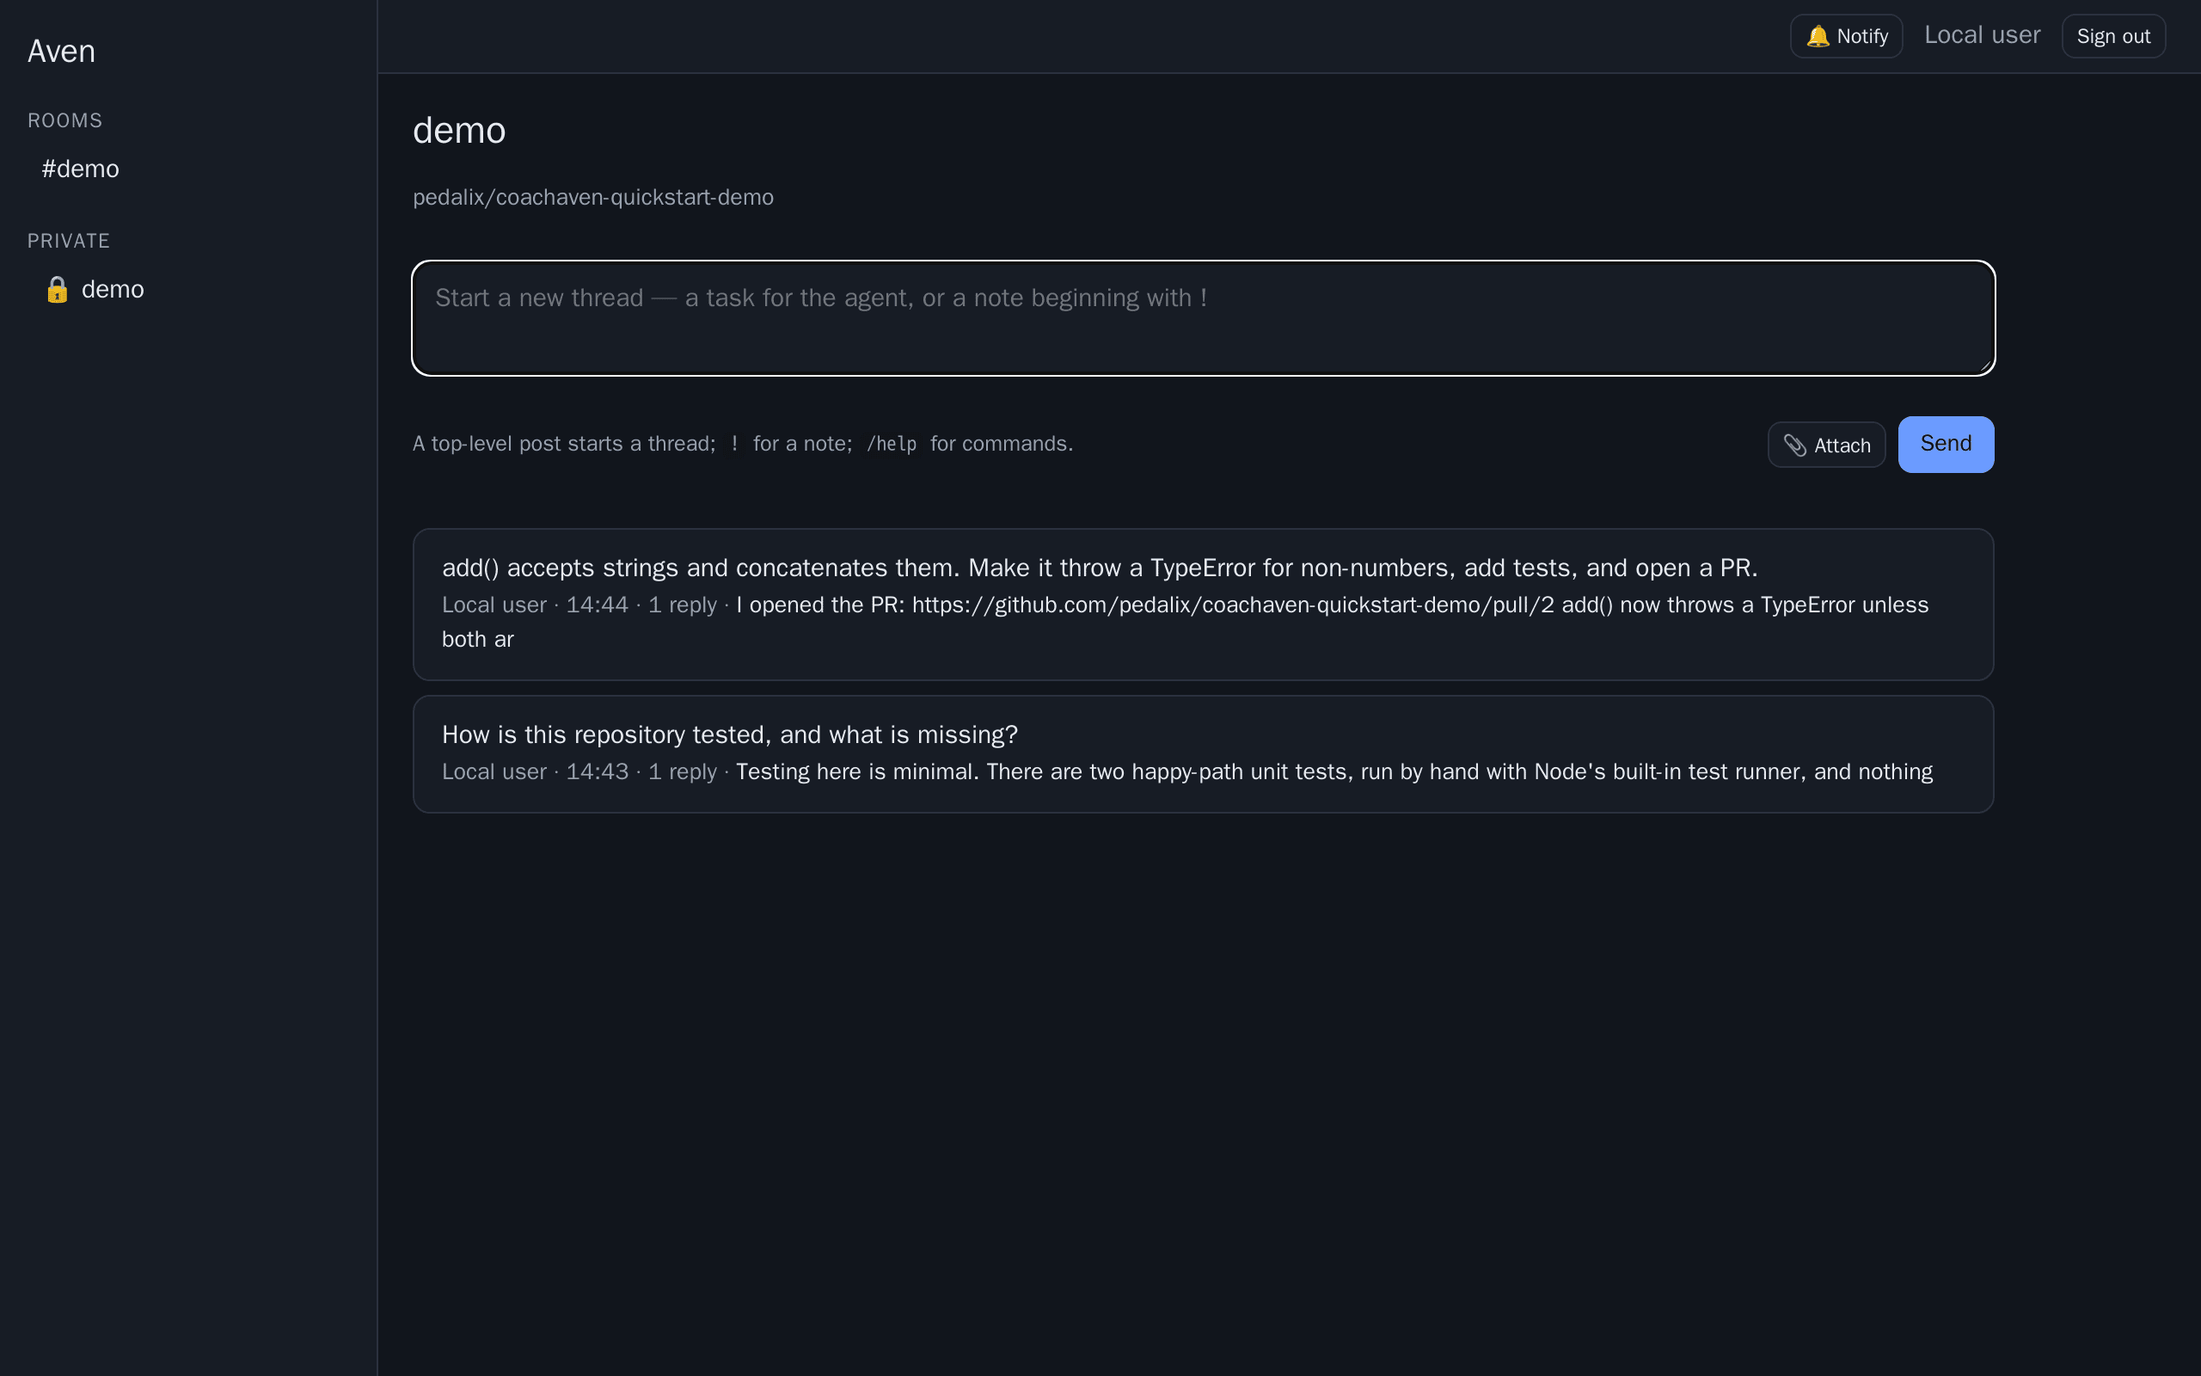
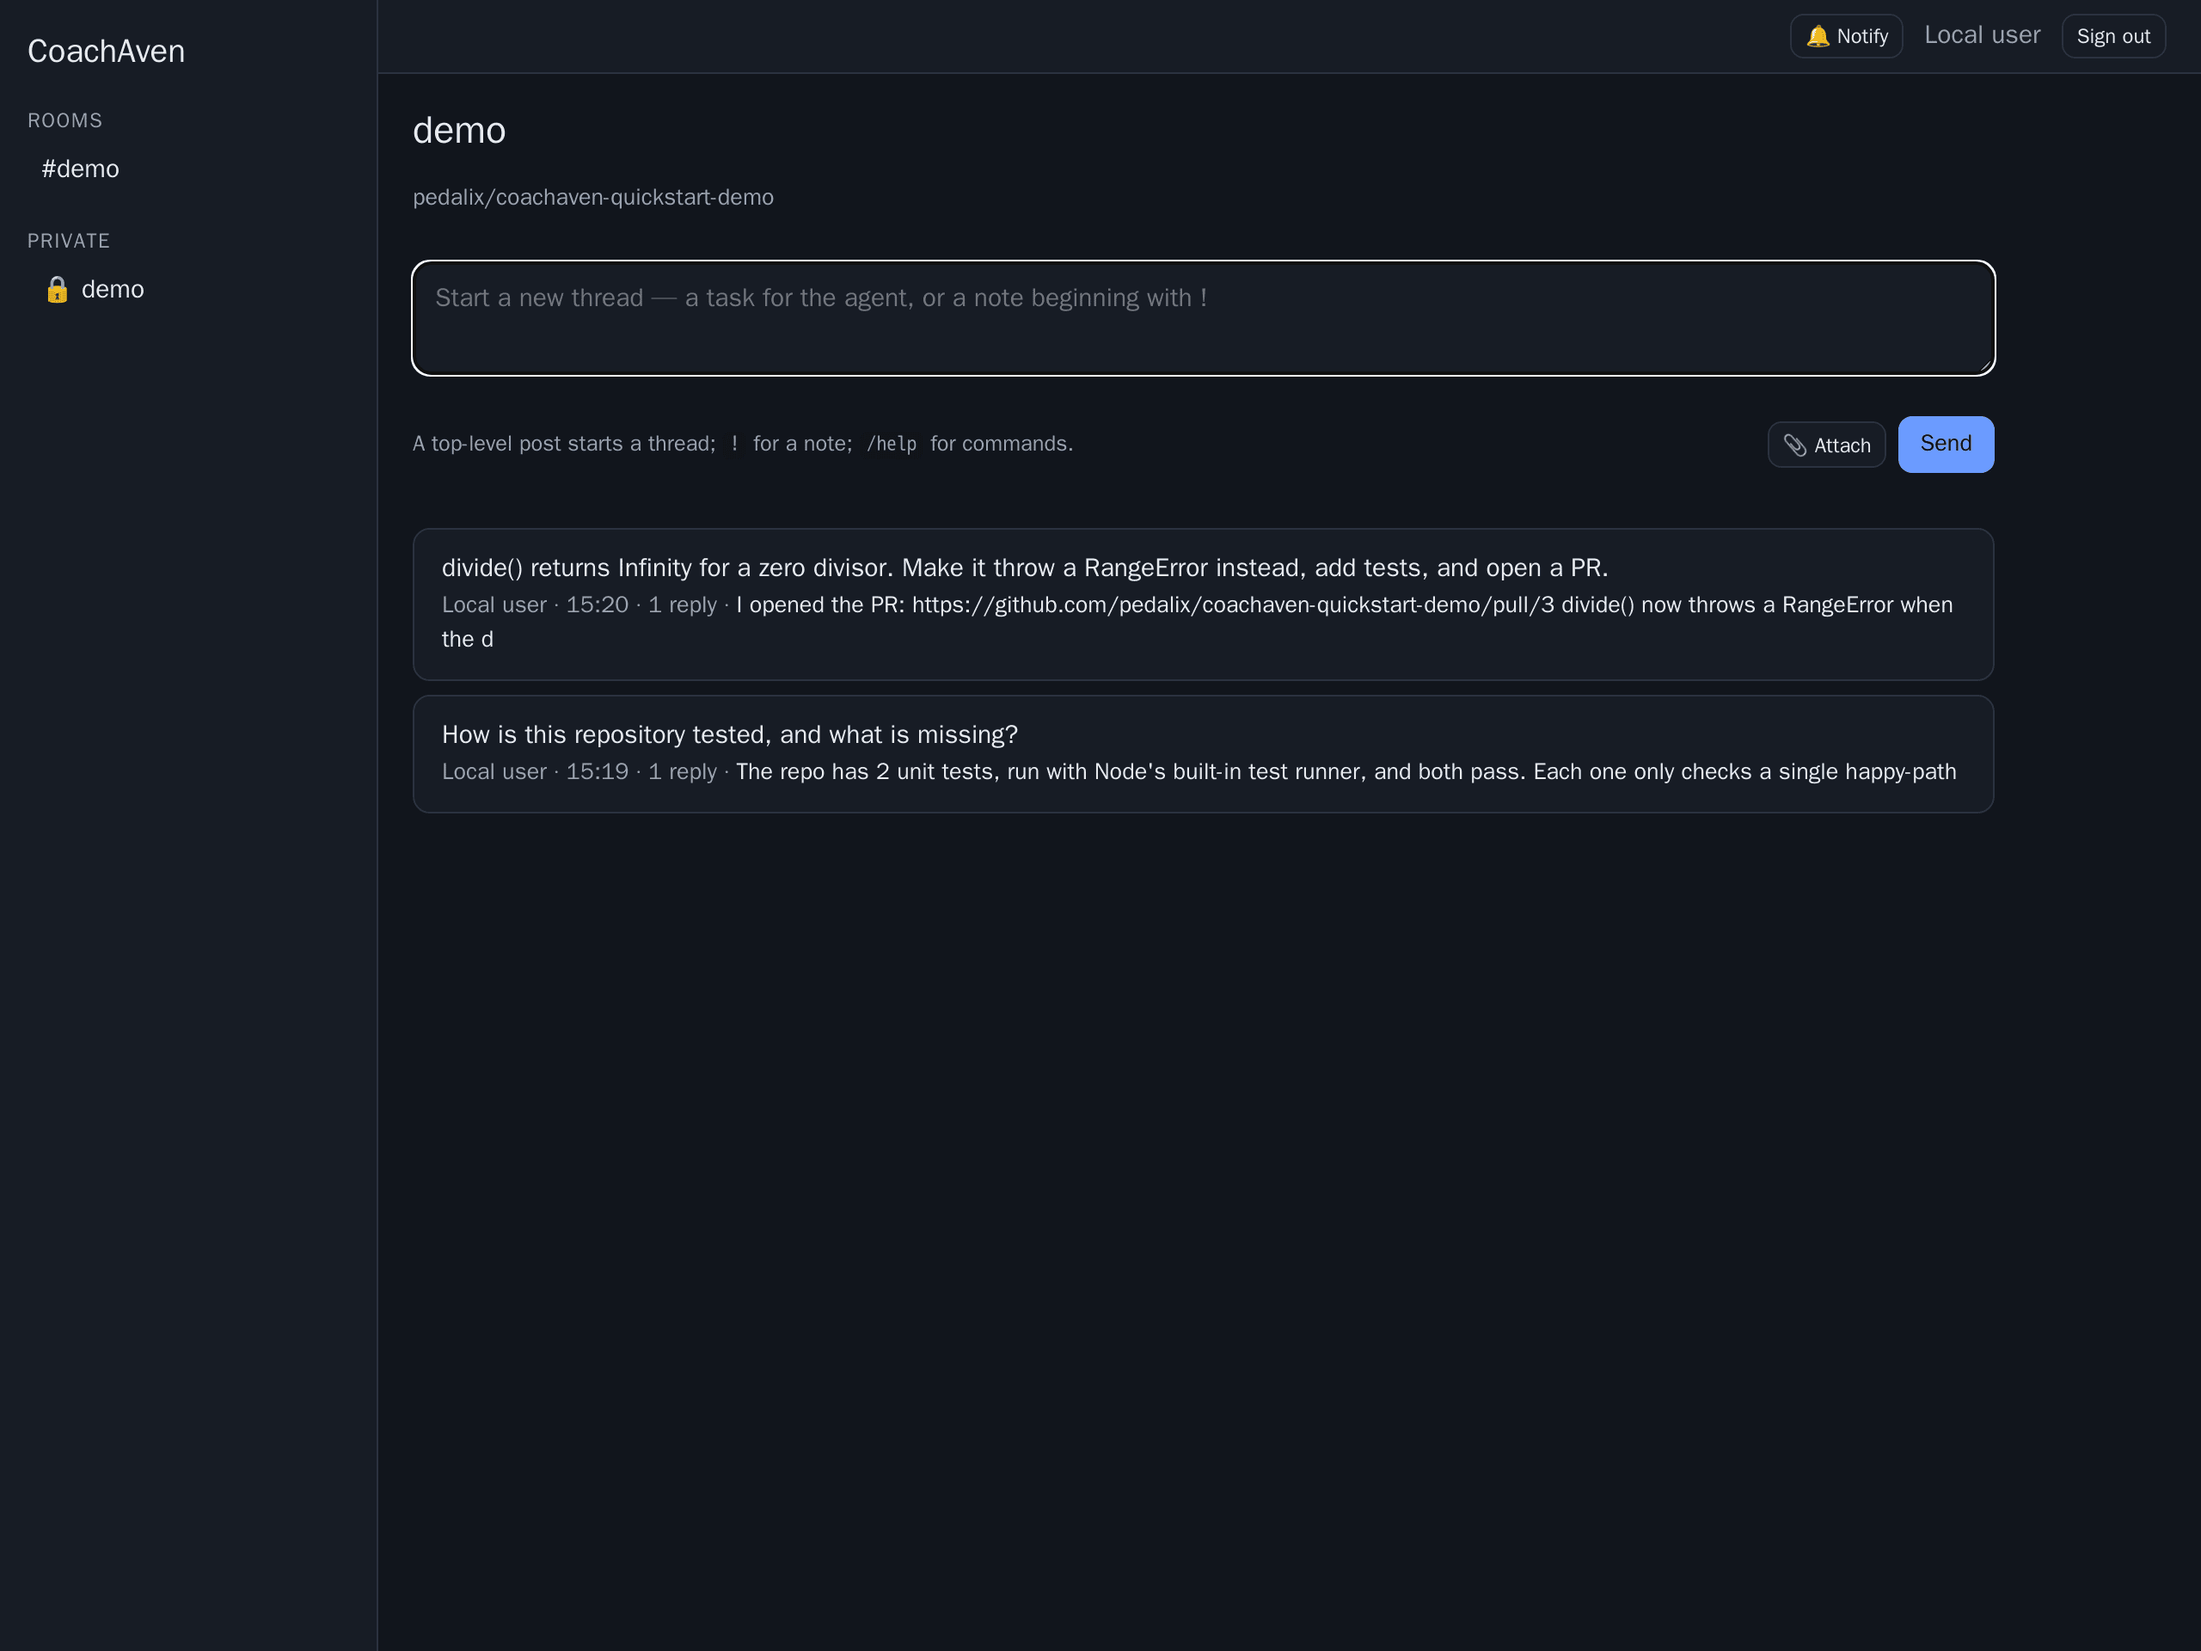
Screenshots again: CoachAven in the web chat's chrome, the thread captured at the top of the page (no sticky-sidebar offset)
Claude-Session: https://claude.ai/code/session_01HUqWBsuAtmvtPcyYnHjUs1

diff --git a/README.md b/README.md
@@ -17,7 +17,7 @@ privileged container: [`docs/quickstart.md`](docs/quickstart.md). Clone, `./init
 
 <picture>
   <source media="(prefers-color-scheme: dark)" srcset="docs/img/web-thread-dark.png">
-  <img alt="A thread in the web chat: asked to make add() reject non-numbers, the agent shows the change, says what its tests cover and links the pull request it opened" src="docs/img/web-thread-light.png" width="800">
+  <img alt="A thread in the web chat: asked to make divide() reject a zero divisor, the agent shows the change, says what its tests cover and links the pull request it opened" src="docs/img/web-thread-light.png" width="800">
 </picture>
 
 **Built for** an agency or a small team that runs many client systems: one installation, one sandbox and one set of
